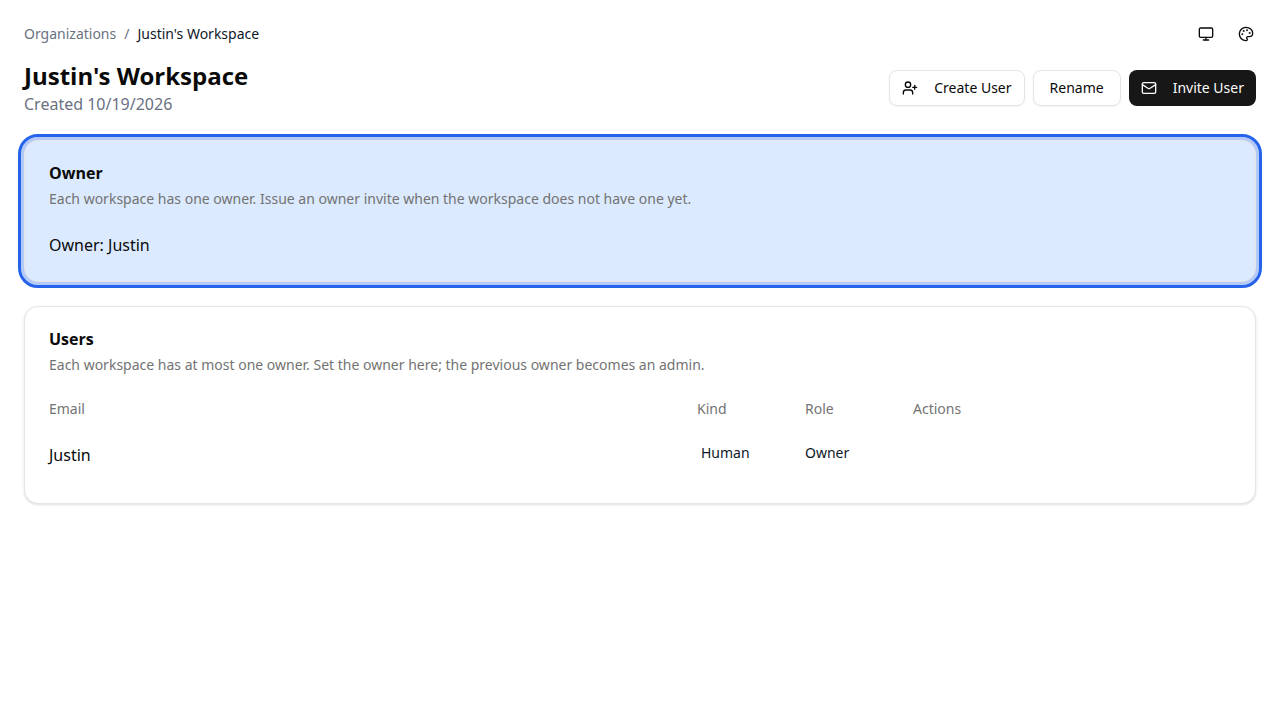
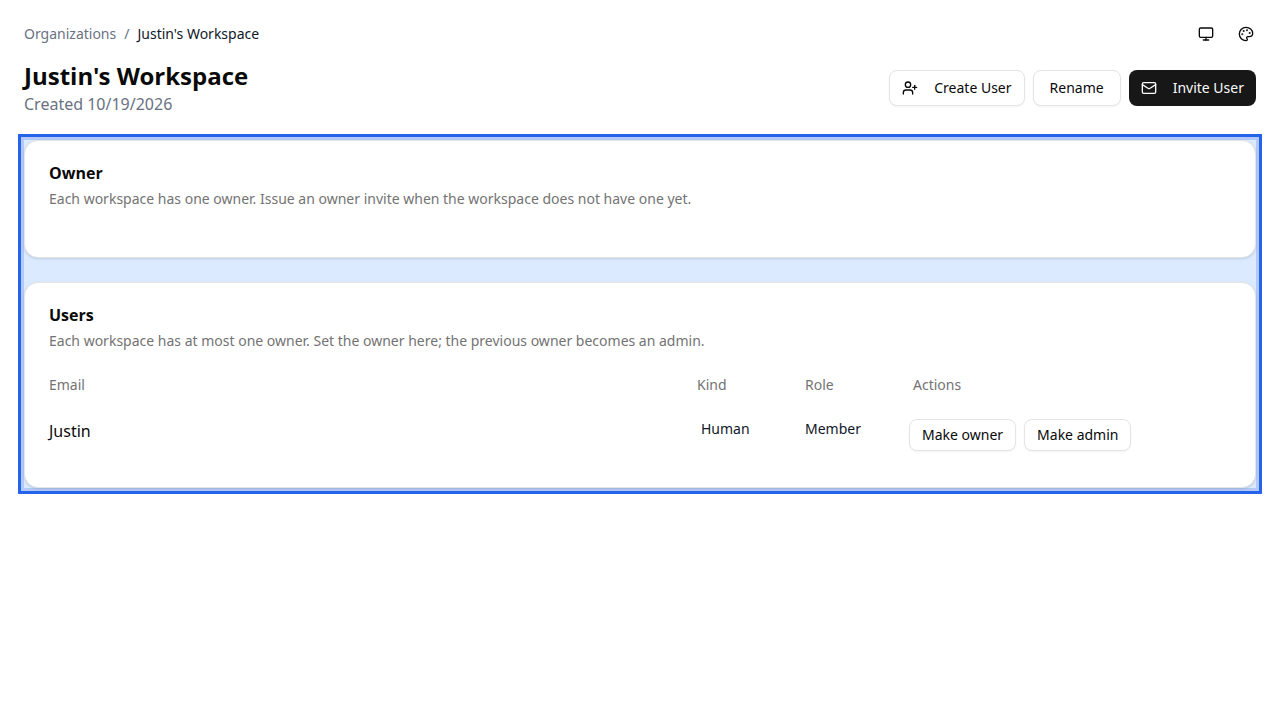
Fix no-owner-badge review: personal GET, clearable email, isolated shots
Keep personal workspaces ownerless in the Playwright walkthrough and
assert Create owner invite stays hidden while Make owner remains.
Read personal from GET owner-invitation instead of the workspace list.
Let the expired invite email be cleared and retyped. Hide other list
rows in screenshots.

diff --git a/packages/acceptance-testing/src/drivers/playwright/admin.ts b/packages/acceptance-testing/src/drivers/playwright/admin.ts
@@ -51,6 +51,15 @@ export const createPlaywrightAdmin = (deps: PlaywrightAdminDependencies): Admin 
     });
   };
 
+  const restoreHiddenOrganizationRows = async (adminPage: Page): Promise<void> => {
+    await adminPage.locator('[data-screenshot-hidden-row]').evaluateAll((els) => {
+      for (const el of els) {
+        el.removeAttribute('data-screenshot-hidden-row');
+        el.removeAttribute('hidden');
+      }
+    });
+  };
+
   const ensureLoggedIn = async (): Promise<Page> => {
     if (page) {
       return page;
@@ -107,6 +116,7 @@ export const createPlaywrightAdmin = (deps: PlaywrightAdminDependencies): Admin 
 
     async openOrganization(organizationId: string): Promise<void> {
       const adminPage = await ensureLoggedIn();
+      await restoreHiddenOrganizationRows(adminPage);
       await adminPage.goto(`/admin/organizations/${organizationId}`);
       await expect(
         adminPage.getByText('Each workspace has at most one owner')
@@ -115,17 +125,23 @@ export const createPlaywrightAdmin = (deps: PlaywrightAdminDependencies): Admin 
 
     async openOrganizationsList(): Promise<void> {
       const adminPage = await ensureLoggedIn();
+      await restoreHiddenOrganizationRows(adminPage);
+      const heading = adminPage.getByRole('heading', { name: 'Organizations' });
       const breadcrumb = adminPage.getByRole('link', { name: 'Organizations' });
-      if (await breadcrumb.isVisible().catch(() => false)) {
+      await expect(breadcrumb.or(heading).first()).toBeVisible();
+      if (await breadcrumb.isVisible()) {
         await breadcrumb.click();
-      } else {
-        await adminPage.goto('/admin');
+        await expect(heading).toBeVisible();
+        return;
       }
-      await expect(adminPage.getByRole('heading', { name: 'Organizations' })).toBeVisible();
+      await expect(heading).toBeVisible();
+      await adminPage.goto('/admin');
+      await expect(heading).toBeVisible();
     },
 
     async frameOrganizationRow(orgId: string): Promise<void> {
       const adminPage = await ensureLoggedIn();
+      await restoreHiddenOrganizationRows(adminPage);
       const row = adminPage.locator(`[data-organization-id="${orgId}"]`);
       await row.scrollIntoViewIfNeeded();
       await expect(row).toBeVisible();
@@ -133,6 +149,14 @@ export const createPlaywrightAdmin = (deps: PlaywrightAdminDependencies): Admin 
       await row.evaluate((el) => {
         el.setAttribute('data-screenshot-focus', '');
       });
+      await adminPage.locator('tr[data-organization-id]').evaluateAll((rows, id) => {
+        for (const other of rows) {
+          if (other.getAttribute('data-organization-id') !== id) {
+            other.setAttribute('data-screenshot-hidden-row', '');
+            other.setAttribute('hidden', '');
+          }
+        }
+      }, orgId);
     },
 
     async frameOwnerSection(): Promise<void> {
@@ -178,6 +202,7 @@ export const createPlaywrightAdmin = (deps: PlaywrightAdminDependencies): Admin 
 
     async clickOwnerBadge(orgId: string): Promise<void> {
       const adminPage = await ensureLoggedIn();
+      await restoreHiddenOrganizationRows(adminPage);
       await adminPage.locator(`[data-organization-id="${orgId}"] [data-owner-badge]`).click();
       await expect(adminPage.locator('#owner')).toBeVisible();
     },
@@ -191,6 +216,18 @@ export const createPlaywrightAdmin = (deps: PlaywrightAdminDependencies): Admin 
 
     async shouldSeeOwnerInviteEmailPrefilled(email: string): Promise<void> {
       await expect(browserPage().locator('#create-owner-invite-email')).toHaveValue(email);
+    },
+
+    async replaceExpiredOwnerInviteEmail(email: string): Promise<void> {
+      const adminPage = browserPage();
+      const field = adminPage.locator('#create-owner-invite-email');
+      await field.fill('');
+      await expect(field).toHaveValue('');
+      await field.fill(email);
+      await adminPage.locator('[data-action="create-owner-invite"]').click();
+      const dialog = adminPage.locator(OPEN_DIALOG_CONTENT);
+      const pending = adminPage.locator('[data-owner-invite-pending]');
+      await expect(dialog.or(pending).first()).toBeVisible();
     },
 
     async shouldSeeNoCreateOwnerInvite(): Promise<void> {
@@ -365,6 +402,7 @@ export const createPlaywrightAdmin = (deps: PlaywrightAdminDependencies): Admin 
       const adminPage = browserPage();
       const dialog = adminPage.locator(OPEN_DIALOG_CONTENT);
       await dialog.getByRole('button', { name: 'Done' }).click();
+      await expect(dialog).toHaveCount(0);
     },
 
     async shouldSeeOwner(name: string): Promise<void> {

diff --git a/packages/acceptance-tests/src/use-cases/no-owner-badge.test.ts b/packages/acceptance-tests/src/use-cases/no-owner-badge.test.ts
@@ -77,6 +77,7 @@ usingDrivers(['http'] as const, (ctx) => {
       const details = await ctx.admin.getOwnerInvitationDetails(garden.id);
       expect(details.ownerInvitation).toBeNull();
       expect(details.expiredOwnerInvitation?.email).toBe(libbyEmail);
+      expect(details.personal).toBe(false);
 
       await ctx.admin.issueOwnerInvitation(garden.id, libbyEmail);
       const waiting = (await ctx.admin.listOrganizations()).find((item) => item.id === garden.id);
@@ -118,6 +119,8 @@ usingDrivers(['http'] as const, (ctx) => {
       const listed = (await ctx.admin.listOrganizations()).find((item) => item.id === garden.id);
       expect(listed?.personal).toBe(true);
       expect(listed?.ownerStatus).toEqual({ kind: 'no-owner', expiredInvite: null });
+      const details = await ctx.admin.getOwnerInvitationDetails(garden.id);
+      expect(details.personal).toBe(true);
     });
   });
 });
@@ -160,7 +163,6 @@ usingDrivers(['playwright'] as const, (ctx) => {
       const personalWorkspace = await ctx.admin.createOwnerlessWorkspace("Justin's Workspace", {
         personalUserId: justin.id,
       });
-      await ctx.admin.setOrganizationOwner(personalWorkspace.id, justin.id);
       const personalWorkspaceId = personalWorkspace.id;
 
       await ctx.admin.openOrganizationsList();
@@ -225,6 +227,19 @@ usingDrivers(['playwright'] as const, (ctx) => {
       await ctx.admin.frameOrganizationRow(expiredGarden.id);
       await captureAdmin('list_after_one_click_invite');
 
+      const retypeEmail = `libby-retype-${stamp}@example.com`;
+      const retypeGarden = await ctx.admin.createOrganization('Garden Club', {
+        ownerEmail: `libby-clear-${stamp}@example.com`,
+      });
+      const retypeInvite = await ctx.admin.getOwnerInvitation(retypeGarden.id);
+      await ctx.admin.expireInvitation(retypeInvite?.code ?? '');
+      await ctx.admin.openOrganization(retypeGarden.id);
+      await ctx.admin.shouldSeeExpiredOwnerInvite(`libby-clear-${stamp}@example.com`);
+      await ctx.admin.shouldSeeOwnerInviteEmailPrefilled(`libby-clear-${stamp}@example.com`);
+      await ctx.admin.replaceExpiredOwnerInviteEmail(retypeEmail);
+      await ctx.admin.closeOwnerInviteDialog();
+      await ctx.admin.shouldSeePendingOwnerInvite(retypeEmail);
+
       await ctx.admin.openOrganizationsList();
       await ctx.admin.shouldSeeNoOwnerBadge(personalWorkspaceId);
       await ctx.admin.frameOrganizationRow(personalWorkspaceId);
@@ -232,8 +247,8 @@ usingDrivers(['playwright'] as const, (ctx) => {
 
       await ctx.admin.openOrganization(personalWorkspaceId);
       await ctx.admin.shouldSeeNoCreateOwnerInvite();
-      await ctx.admin.shouldSeeOwner('Justin');
-      await ctx.admin.frameOwnerSection();
+      await ctx.admin.shouldSeeMakeOwner(justin.id);
+      await ctx.admin.frameOwnerAndUsers();
       await captureAdmin('personal_owner_section');
 
       const refreshGarden = await ctx.admin.createOwnerlessWorkspace('Garden Club');

diff --git a/apps/admin/src/routes/_authenticated/organizations.$orgId.tsx b/apps/admin/src/routes/_authenticated/organizations.$orgId.tsx
@@ -71,6 +71,8 @@ function OrganizationDetailPage() {
   const [isOwnerInviteResultOpen, setIsOwnerInviteResultOpen] = useState(false);
   const [differentOwnerEmail, setDifferentOwnerEmail] = useState('');
   const [createOwnerInviteEmail, setCreateOwnerInviteEmail] = useState('');
+  const [expiredFormOrgId, setExpiredFormOrgId] = useState(orgId);
+  const [expiredFormEmail, setExpiredFormEmail] = useState<string | null>(null);
   const [ownerInviteUrl, setOwnerInviteUrl] = useState<string | null>(null);
   const [ownerInviteEmail, setOwnerInviteEmail] = useState<string | null>(null);
   const tsrQueryClient = tsrAdmin.useQueryClient();
@@ -138,9 +140,10 @@ function OrganizationDetailPage() {
     queryData: { params: { id: orgId } },
   });
 
-  const { data: organizationsData } = tsrAdmin.listOrganizations.useQuery({
-    queryKey: ['organizations'],
-  });
+  if (expiredFormOrgId !== orgId) {
+    setExpiredFormOrgId(orgId);
+    setExpiredFormEmail(null);
+  }
 
   useEffect(() => {
     if (orgPending || usersPending) {
@@ -252,6 +255,7 @@ function OrganizationDetailPage() {
       setIsCreateOwnerInviteOpen(false);
       setDifferentOwnerEmail('');
       setCreateOwnerInviteEmail('');
+      setExpiredFormEmail(null);
 
       if (data.body.owner !== null) {
         const workspaceName =
@@ -489,14 +493,16 @@ function OrganizationDetailPage() {
   const pendingOwnerInviteUrl = pendingOwnerInvitation
     ? joinUrlForCode(pendingOwnerInvitation.code)
     : null;
-  const workspaceListItem =
-    organizationsData?.status === 200
-      ? organizationsData.body.organizations.find((item) => item.id === orgId)
-      : undefined;
-  const isPersonalWorkspace = workspaceListItem?.personal === true;
+  const ownerInvitationReady = ownerInvitationData?.status === 200;
+  const isPersonalWorkspace =
+    ownerInvitationReady && ownerInvitationData.body.personal === true;
   const canCreateOwnerInvite =
-    !ownerMember && !pendingOwnerInvitation && !isPersonalWorkspace && workspaceListItem !== undefined;
-  const ownerInviteEmailValue = createOwnerInviteEmail || expiredOwnerInvitation?.email || '';
+    ownerInvitationReady &&
+    !ownerMember &&
+    !pendingOwnerInvitation &&
+    !isPersonalWorkspace;
+  const ownerInviteEmailValue =
+    expiredFormEmail ?? expiredOwnerInvitation?.email ?? '';
 
   if (!organization) {
     return (
@@ -791,7 +797,7 @@ function OrganizationDetailPage() {
                       id="create-owner-invite-email"
                       type="email"
                       value={ownerInviteEmailValue}
-                      onChange={(event) => setCreateOwnerInviteEmail(event.target.value)}
+                      onChange={(event) => setExpiredFormEmail(event.target.value)}
                       required
                     />
                   </div>

diff --git a/apps/api/src/access/application/handle-get-owner-invitation.test.ts b/apps/api/src/access/application/handle-get-owner-invitation.test.ts
@@ -5,6 +5,7 @@ import { createFakeOrganizationMembershipStore } from '../infrastructure/fake-or
 import { createFakeInvitationStore } from '../infrastructure/fake-invitation-store.js';
 import type { Organization } from '../domain/organization.js';
 import type { Invitation } from '../domain/invitation.js';
+import type { OrganizationMembership } from '../domain/organization-membership.js';
 
 const now = '2024-06-15T12:00:00.000Z';
 const org: Organization = {
@@ -40,6 +41,7 @@ describe('handleGetOwnerInvitation', () => {
     if (result.isOk()) {
       expect(result.value.ownerInvitation?.email).toBe('libby@example.com');
       expect(result.value.expiredOwnerInvitation).toBeNull();
+      expect(result.value.personal).toBe(false);
     }
   });
 
@@ -61,6 +63,32 @@ describe('handleGetOwnerInvitation', () => {
         email: 'libby@example.com',
         expiredAt: '2024-06-15T12:00:00.000Z',
       });
+      expect(result.value.personal).toBe(false);
+    }
+  });
+
+  it('returns personal true when a membership is the personal workspace', async () => {
+    const personalMembership: OrganizationMembership = {
+      id: '550e8400-e29b-41d4-a716-446655440021',
+      userId: '550e8400-e29b-41d4-a716-446655440010',
+      organizationId: org.id,
+      role: 'member',
+      isPersonalOrg: true,
+      joinedAt: now,
+    };
+    const result = await handleGetOwnerInvitation(org.id, {
+      organizationStore: createFakeOrganizationStore({ initialOrganizations: [org] }),
+      membershipStore: createFakeOrganizationMembershipStore({
+        initialMemberships: [personalMembership],
+      }),
+      invitationStore: createFakeInvitationStore(),
+      now: () => now,
+    });
+    expect(result.isOk()).toBe(true);
+    if (result.isOk()) {
+      expect(result.value.personal).toBe(true);
+      expect(result.value.ownerInvitation).toBeNull();
+      expect(result.value.expiredOwnerInvitation).toBeNull();
     }
   });
 });

diff --git a/packages/acceptance-testing/src/drivers/playwright/walkthrough-screenshots.ts b/packages/acceptance-testing/src/drivers/playwright/walkthrough-screenshots.ts
@@ -274,11 +274,13 @@ const HIDE_TOASTS_STYLE = [
   '[data-sonner-toaster]{display:none !important}',
   '[data-project-history] button svg,[data-project-finished] button svg{transition:none !important}',
   '[data-screenshot-focus]{outline:3px solid #2563eb !important;outline-offset:3px !important;background:#dbeafe !important;box-shadow:0 0 0 3px rgba(37,99,235,0.35) !important}',
+  'tbody tr[data-organization-id]:not([data-screenshot-focus]){display:none !important}',
 ].join('');
 
 const SHOW_TOASTS_STYLE = [
   '[data-project-history] button svg,[data-project-finished] button svg{transition:none !important}',
   '[data-screenshot-focus]{outline:3px solid #2563eb !important;outline-offset:3px !important;background:#dbeafe !important;box-shadow:0 0 0 3px rgba(37,99,235,0.35) !important}',
+  'tbody tr[data-organization-id]:not([data-screenshot-focus]){display:none !important}',
 ].join('');
 
 export const saveWalkthroughPng = async (input: {

diff --git a/apps/api/src/access/application/http-owner-invite-routes.test.ts b/apps/api/src/access/application/http-owner-invite-routes.test.ts
@@ -247,6 +247,7 @@ describe('owner invite HTTP routes', () => {
     expect(fetched.statusCode).toBe(200);
     expect(fetched.json().ownerInvitation.email).toBe('libby@example.com');
     expect(fetched.json().expiredOwnerInvitation).toBeNull();
+    expect(fetched.json().personal).toBe(false);
   });
 
   it('lists owner status for has-owner, waiting, no-owner, and expired', async () => {
@@ -340,6 +341,7 @@ describe('owner invite HTTP routes', () => {
     expect(fetchedExpired.statusCode).toBe(200);
     expect(fetchedExpired.json().ownerInvitation).toBeNull();
     expect(fetchedExpired.json().expiredOwnerInvitation.email).toBe('libby-expired@example.com');
+    expect(fetchedExpired.json().personal).toBe(false);
   });
 
   it('refuses owner invites on a workspace that already has an owner', async () => {

diff --git a/apps/api/src/access/application/handle-get-owner-invitation.ts b/apps/api/src/access/application/handle-get-owner-invitation.ts
@@ -28,6 +28,7 @@ export type HandleGetOwnerInvitationDeps = {
 export type OwnerInvitationRead = {
   ownerInvitation: Invitation | null;
   expiredOwnerInvitation: { email: string; expiredAt: string } | null;
+  personal: boolean;
 };
 
 export type HandleGetOwnerInvitationError =
@@ -80,6 +81,7 @@ export const handleGetOwnerInvitation = (
               return okAsync({
                 ownerInvitation: pending,
                 expiredOwnerInvitation,
+                personal: decision.value.personal,
               });
             })
         );

diff --git a/packages/acceptance-testing/src/drivers/http/admin.ts b/packages/acceptance-testing/src/drivers/http/admin.ts
@@ -404,6 +404,9 @@ export const createHttpAdmin = (
   async shouldSeeOwnerInviteEmailPrefilled() {
     throw new UnsupportedOperationError('shouldSeeOwnerInviteEmailPrefilled', 'http');
   },
+  async replaceExpiredOwnerInviteEmail() {
+    throw new UnsupportedOperationError('replaceExpiredOwnerInviteEmail', 'http');
+  },
   async shouldSeeNoCreateOwnerInvite() {
     throw new UnsupportedOperationError('shouldSeeNoCreateOwnerInvite', 'http');
   },

diff --git a/packages/acceptance-testing/src/dsl/admin.ts b/packages/acceptance-testing/src/dsl/admin.ts
@@ -77,6 +77,7 @@ export type Admin = {
   clickOwnerBadge(orgId: string): Promise<void>;
   shouldSeeExpiredOwnerInvite(email: string): Promise<void>;
   shouldSeeOwnerInviteEmailPrefilled(email: string): Promise<void>;
+  replaceExpiredOwnerInviteEmail(email: string): Promise<void>;
   shouldSeeNoCreateOwnerInvite(): Promise<void>;
   frameOrganizationRow(orgId: string): Promise<void>;
   frameOwnerSection(): Promise<void>;

diff --git a/packages/api-contracts/src/schemas/admin.ts b/packages/api-contracts/src/schemas/admin.ts
@@ -59,6 +59,7 @@ export const ExpiredOwnerInvitationSchema = z.object({
 export const GetOwnerInvitationResponseSchema = z.object({
   ownerInvitation: OwnerInvitationSummarySchema.nullable(),
   expiredOwnerInvitation: ExpiredOwnerInvitationSchema.nullable(),
+  personal: z.boolean(),
 });
 
 export const UpdateOrganizationSchema = z.object({

diff --git a/apps/api/src/access/application/admin-routes.ts b/apps/api/src/access/application/admin-routes.ts
@@ -385,6 +385,7 @@ export const registerAdminRoutes = async (
                 ? toOwnerInvitationSummary(read.ownerInvitation)
                 : null,
               expiredOwnerInvitation: read.expiredOwnerInvitation,
+              personal: read.personal,
             },
           }),
           (error) => {

diff --git a/packages/acceptance-testing/src/dsl/types.ts b/packages/acceptance-testing/src/dsl/types.ts
@@ -467,6 +467,7 @@ export type OwnerInvitation = {
 export type OwnerInvitationDetails = {
   ownerInvitation: OwnerInvitation | null;
   expiredOwnerInvitation: { email: string; expiredAt: string } | null;
+  personal: boolean;
 };
 
 export type IssueOwnerInvitationResult = {
